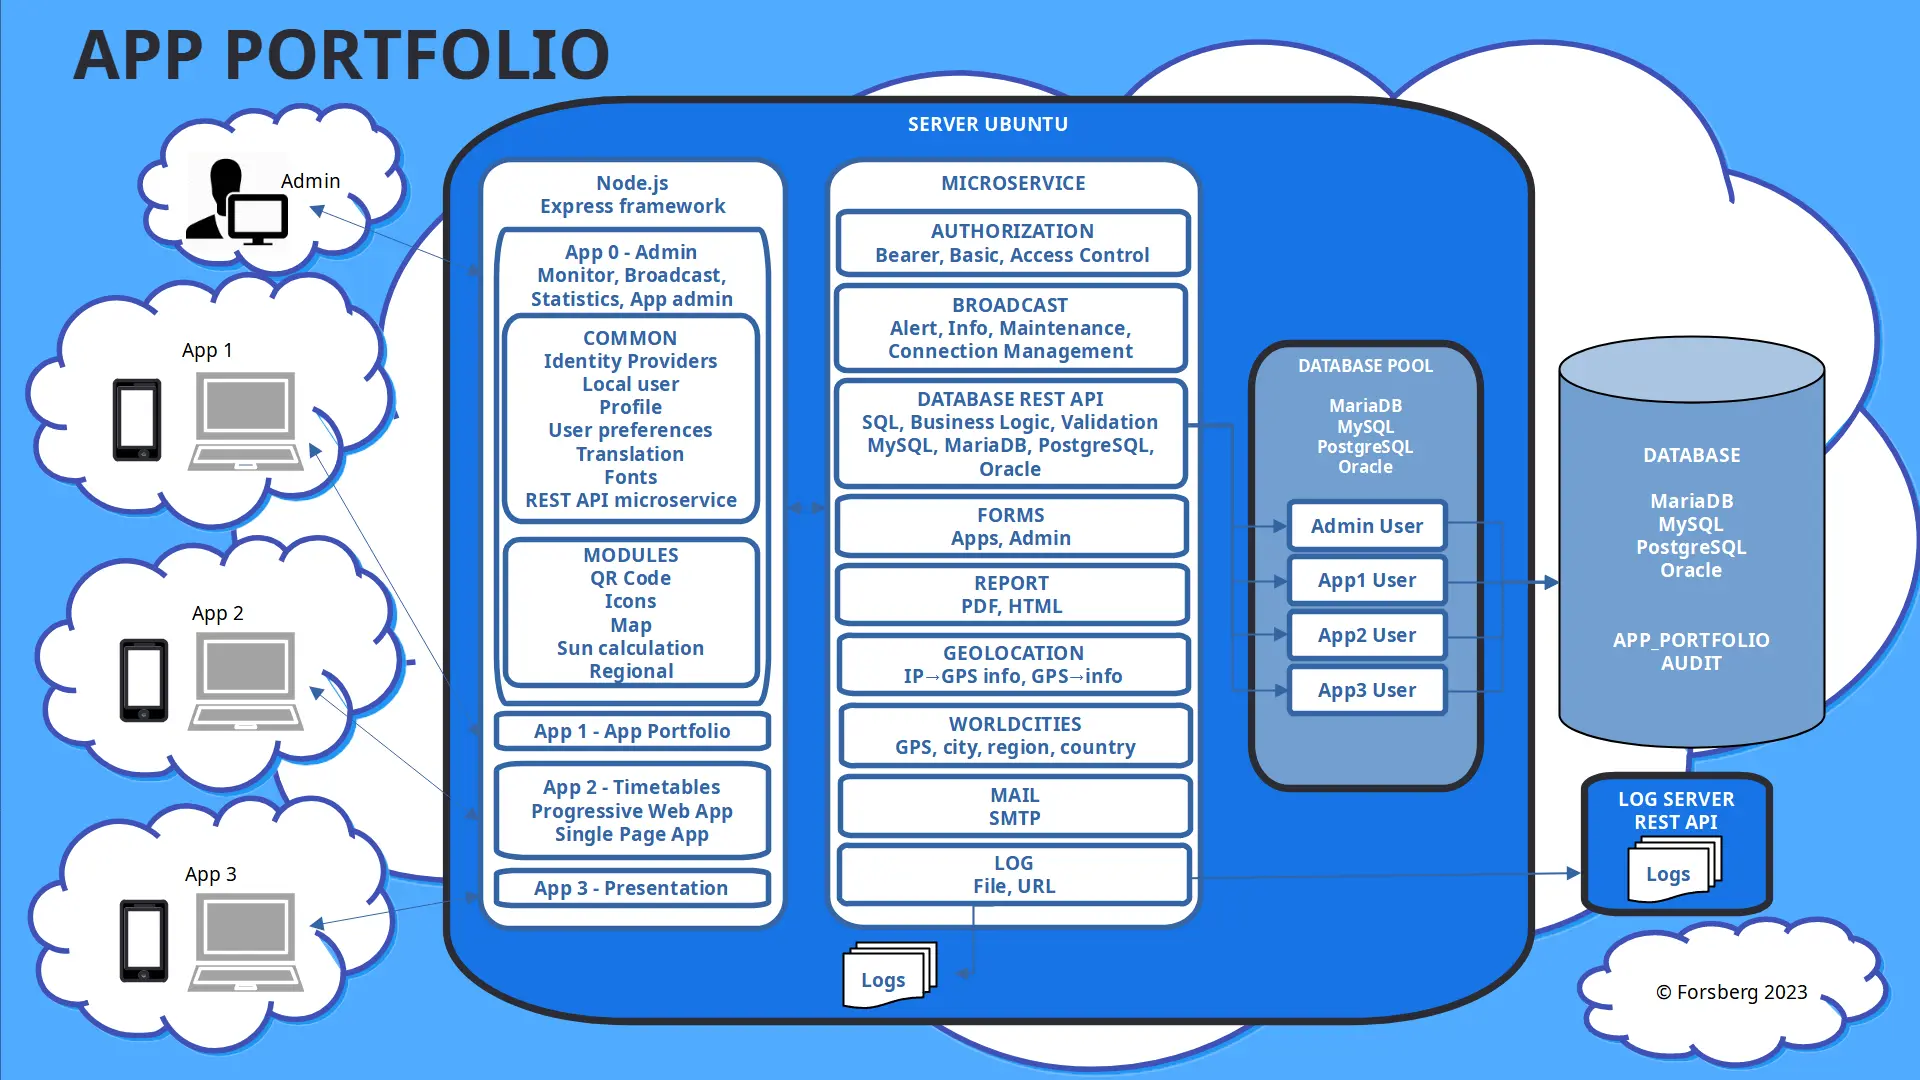
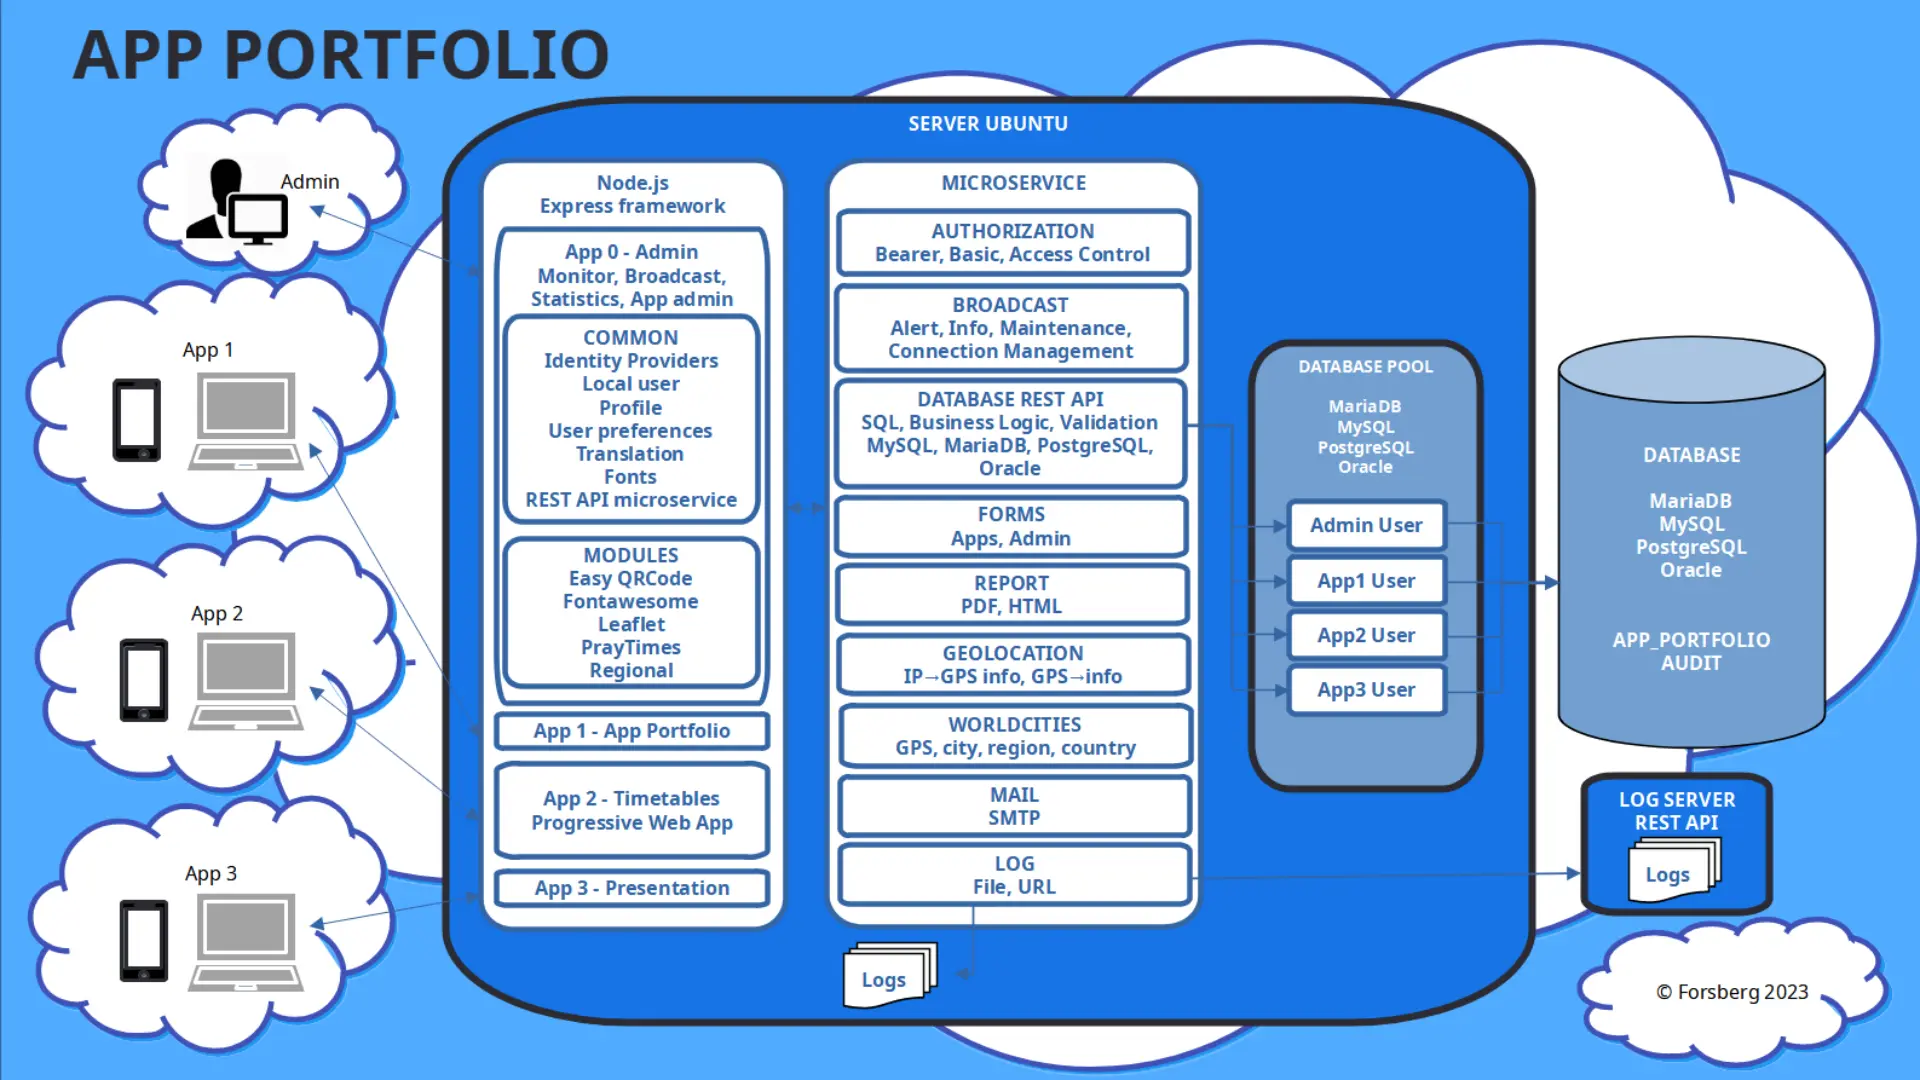
APB-438 updates diagram with removed info single page app since all apps are single page apps and uses correct module names. About in app1 and readme updated and synchronized common text.

diff --git a/apps/app1/src/info/about.html b/apps/app1/src/info/about.html
@@ -19,11 +19,11 @@
 
 	Runs in Node.js using Express framework.
 
-	Apps are component structured and server-side rendered with database data population.
+	Apps are component structured and server-side rendered with database data population and single page apps.
 	Secure REST API with authentication middleware, common ANSI SQL with minium differences for all databases, 
 	centralized common SQL parameter syntax and consolidated data validation in Javascript for all databases.
 	Apps are written using pure CSS, HTML and Javascript and ES6+ Javascript using
-	AJAX method and JSON in both client and server.
+	AJAX method and JSON, ECMAScript modules only in both client and server.
 	Apps third party modules included are Easy QRCode, Fontawesome icons, Leaflet map, sunposition calculations 
 	and regional functions. 
 
@@ -75,7 +75,8 @@
 	- any language, all unicode characters in client and in server, any regional setting, double bilanguage calendar
 	  realtime timetable calculations with all known needed settings configurable with different themes using CSS,
 	- social network
-	- Javascript ECMAScript modules and ES6+ Javascript using Express in Node.js.
+	- Javascript ECMAScript modules and ES6+ Javascript using Express in Node.js. Thirdparty javascript modules 
+	  should be converted from CommonJS to ECMScript modules if necessary.
 	- report PDF with QR codes pixel perfect design using CSS pt font size measurement and full unicode support
 	- forms server with client component server generation
 	- database and file logging
@@ -118,6 +119,7 @@
 	- access control geolocation
 	
 	Not included in the scope
+	
 	- Production features like
 	  - Load balancer with for example popular NGINX for performance
 	  - Reverse Proxy server with for example popular NGINX for multiple application servers on the same host

diff --git a/README.md b/README.md
@@ -21,7 +21,7 @@
 	Secure REST API with authentication middleware, common ANSI SQL with minium differences for all databases, 
 	centralized common SQL parameter syntax and consolidated data validation in Javascript for all databases.
 	Apps are written using pure CSS, HTML and Javascript and ES6+ Javascript using
-	AJAX method and JSON in both client and server.
+	AJAX method and JSON, ECMAScript modules only in both client and server.
 	Apps third party modules included are Easy QRCode, Fontawesome icons, Leaflet map, sunposition calculations 
 	and regional functions. 
 
@@ -36,39 +36,52 @@
 	country translations. The mayor 30 languages are translated in the apps. Icons are frequently used 
 	to minmize text usage and to provide simplier and better explanation to a global audience.
 
-	Developed in Visual Studio Code in Windows with integration with Github and Jira following Scrum agile project management framework and deployed on Oracle Cloud and Ubuntu server.
+	Developed in Visual Studio Code in Windows with integration with Github and Jira following 
+	Scrum agile project management framework and deployed on Oracle Cloud and Ubuntu server.
 
 # Project description
 	
 	Why 
 	As a certified professional developer, develop a new platform using latest technology and paradigm used today
 	and to show a well structured enterprise level platform implemented with pure technology without unnecessary
-	obscure frameworks.
+	obscure frameworks to be used as reference project and a manual and guidance for future projects.
 	
 	What
-	Create a platform with latest technology supporting any language and regional setting with the most optimized,
+	Create a web app platform with latest technology supporting any language and regional setting with the most optimized,
 	structured and most pragmatic and academic implementation in mind using years of empirical knowledge of full stack
-	development.
+	development using Javascript, HTML, CSS as the most popular technology used for front end web development and using 
+	most popular open source or free SQL databases for back end development. The web app platform should be deployed on
+	the popular Node.js that supports Javascript in the server.
 
 	How
 	Aquiring latest certifications, studying latest technologies trying out pros and cons.
-	Finding common factors in MariaDB, Mysql, PostgreSQL and Oracle databases to implement easier maintainable REST API and datamodel.
-	Consolidate ideas from Angular, Vue, React, jQuery, Oracle Forms, Oracle Reports and Oracle APEX, existing log and monitor solutions, javascript frameworks to optimal structure and implementation.
+	Finding common factors in MariaDB, Mysql, PostgreSQL and Oracle databases to implement easier maintainable REST API 
+	and datamodel.
+	Consolidate ideas from Angular, Vue, React, jQuery, Oracle Forms, Oracle Reports and Oracle APEX, existing log and 
+	monitor solutions, javascript frameworks to optimal structure and implementation.
 
 	Requirements
+
+	- all apps should be web apps with open source written in Javascript, HTML and CSS both for front end and back end 
+	  and using JSON and REST API between front end and back end
+    - all apps should work on mobile, tablet and desktop computers
 	- all apps should be single page application (SPA)
 	- one app should be Progressive Web App (PWA)
 	- any language, all unicode characters in client and in server, any regional setting, double bilanguage calendar
 	  realtime timetable calculations with all known needed settings configurable with different themes using CSS,
 	- social network
-	- Javascript ECMAScript modules and ES6+ javsscript using Express in Node.js.
+	- Javascript ECMAScript modules and ES6+ Javascript using Express in Node.js. Thirdparty javascript modules 
+	  should be converted from CommonJS to ECMScript modules if necessary.
 	- report PDF with QR codes pixel perfect design using css pt font size measurement and full unicode support
-	- forms server with client component servergeneration
+	- forms server with client component server generation
 	- database and file logging
-	- apps are component servergenerated with database data population
+	- apps are component server generated with database data population
 	- microservice arquitecture
 	- MariaDB, MySQL, PostgreSQL and Oracle databases supported deployed on Oracle Cloud with dynamic pool arquitecture
 	  and sql logging stratified per app
+	- database should support transactions with rollback and commit and be able to save images in the database
+	- database ER model and server datamodel using a database data model designer tool that can generate SQL from 
+	  the server data model
 	- dynamic app installation
 	- admin app with monitoring of live connections and logs, statistics, broadcast maintenance, messaging to clients,
 	  database info, OS info, process info and user role management.
@@ -77,11 +90,16 @@
 	- vendor specific coding as for example -webkit-, -moz-, -o-, -ms- and filter: progid:DXImageTransform.Microsoft 
 	  in CSS removed. 
 	- third party modules should be canvas free solutions or configured to not use canvas.
+	- own solution for statistics displayed in graphs
+	- no exposure of server code in client like for example React framework is doing by default
+	- using Scrum agile project management framework to manage project with integrated version control that supports 
+	  code releases of all source code and documentation
 
 	Security requirements
+
 	- Content Security Policy against XSS
 	- SHA256 for REST API and Bcrypt for user security
-	- JSON web tokens with extra validation that checks token is authorized to correct userid, appid and ip.
+	- JSON web tokens with extra validation that checks at least token is authorized to correct userid, appid and ip.
 	- admin app logs in with fetched code from server after accesstoken fetched and code deleted after logout
 	  with no traces in navigator history
 	- no cookies used, means no user info is saved in browser
@@ -94,6 +112,16 @@
 	- access control robots search engine
 	- access control internet
 	- access control geolocation
+
+	Not included in the scope
+	
+	- Production features like
+	  - Load balancer with for example popular NGINX for performance
+	  - Reverse Proxy server with for example popular NGINX for multiple application servers on the same host
+	  - Containers like Kubernetes and Docker
+	  - Continuos Delivery (CD) and Continuos Integration (CI)
+	  - Automatic IP control integration with for example iptables
+    - Social media monitoring
 
 # Providers
 
